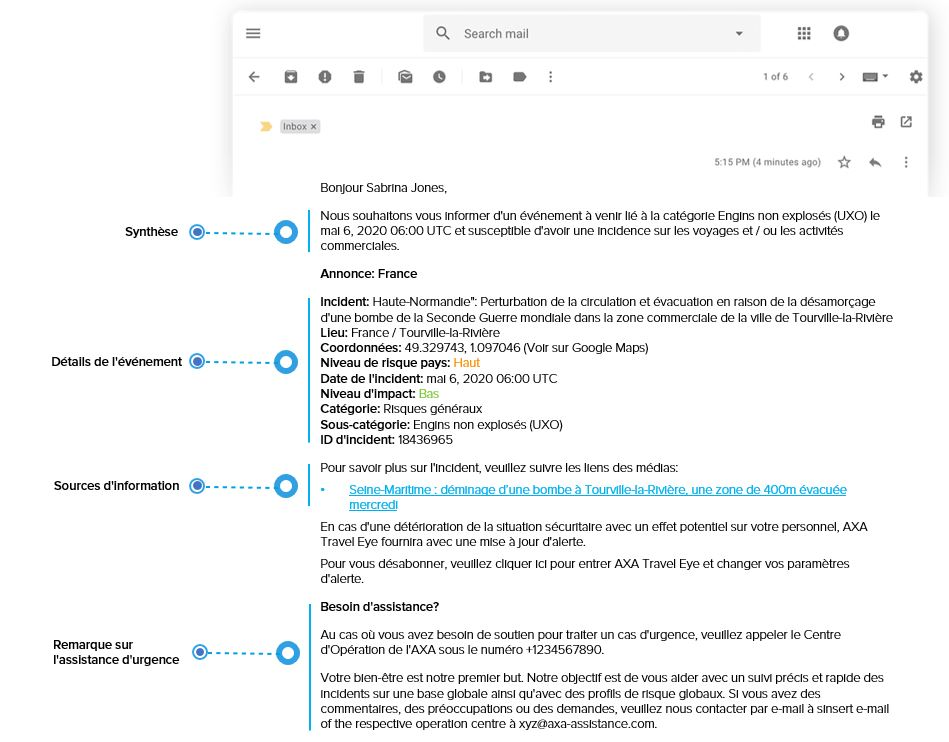
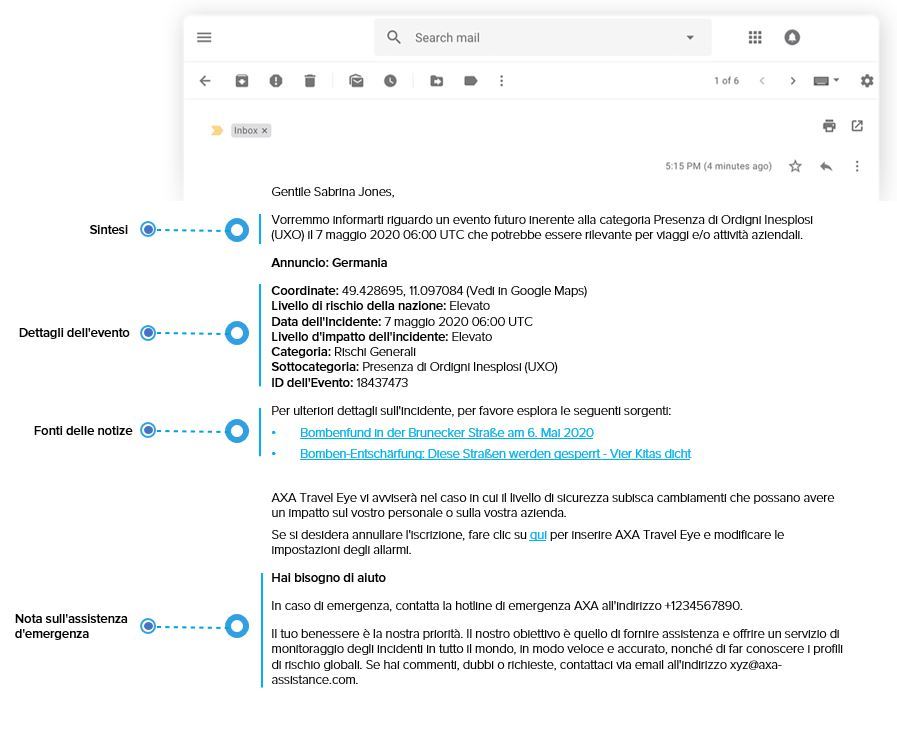
GitBook: [italian] one page and 2 assets modified

diff --git a/global-events-1/e-mails.md b/global-events-1/e-mails.md
@@ -6,5 +6,7 @@ Si prega di notare, un'informazione di sicurezza sarà inviata quando l'impatto 
 
 ![](../.gitbook/assets/security-information_mail.JPG)
 
+## Annuncio
 
+![](../.gitbook/assets/announcement_mail%20%281%29.JPG)
 
